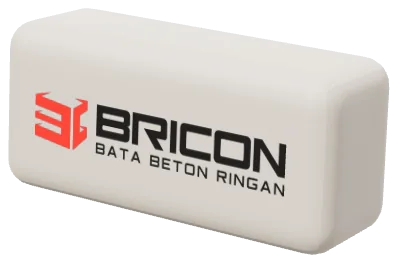
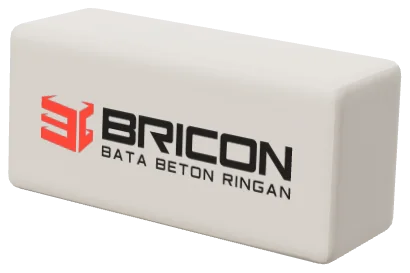
feat: rev11 sorotan jajar genjang, bata hero lebih tajam, fix 3D hilang, zoom desktop 90%
- Sorotan jajar genjang kuning (gaya BRICON) di "ringan" dan "kuat" pada hero & OG; stabilo deskripsi dihapus
- 2 bata hero dirender ulang dengan sudut lebih tajam tapi tetap membulat
- Fix model 3D produk hilang/titik penjelas muncul sendiri; model tetap di tempat kalau di-scroll saat transisi
- Seleksi teks kuning, scrollbar merah, desktop ≥1200px tampil seperti zoom 90%

Claude-Session: https://claude.ai/code/session_01XkrxM7aJVBU55g7YgcUYVG

diff --git a/index.html b/index.html
@@ -52,7 +52,7 @@
 <meta property="og:title" content="Bricon Partner — Bata Ringan &amp; Panel Lantai Jawa Timur">
 <meta property="og:description" content="Bata ringan &amp; panel lantai BRICON berteknologi Microbubble. Stok lengkap, pengiriman cepat, kualitas SNI. Konsultasi gratis via WhatsApp.">
 <meta property="og:locale" content="id_ID">
-<meta property="og:image" content="https://bricon-partner.com/assets/og-image.jpg?v=r10">
+<meta property="og:image" content="https://bricon-partner.com/assets/og-image.jpg?v=r11">
 <meta property="og:image:width" content="1200">
 <meta property="og:image:height" content="630">
 <meta property="og:image:alt" content="Bricon Partner — Bata Ringan &amp; Panel Lantai BRICON Jawa Timur">
@@ -61,7 +61,7 @@
 <meta name="twitter:card" content="summary_large_image">
 <meta name="twitter:title" content="Bricon Partner — Bata Ringan &amp; Panel Lantai Jawa Timur">
 <meta name="twitter:description" content="Bata ringan &amp; panel lantai BRICON berteknologi Microbubble. Stok lengkap, pengiriman cepat, kualitas SNI.">
-<meta name="twitter:image" content="https://bricon-partner.com/assets/og-image.jpg?v=r10">
+<meta name="twitter:image" content="https://bricon-partner.com/assets/og-image.jpg?v=r11">
 
 <!-- Canonical -->
 <link rel="canonical" href="https://bricon-partner.com/">
@@ -78,7 +78,7 @@
   "alternateName": ["Bata Ringan Bricon Partner"],
   "description": "Bricon Partner — penyedia Bata Ringan & Panel Lantai BRICON berteknologi Microbubble di Jawa Timur. Stok lengkap, pengiriman cepat, kualitas SNI.",
   "url": "https://bricon-partner.com/",
-  "image": "https://bricon-partner.com/assets/og-image.jpg?v=r10",
+  "image": "https://bricon-partner.com/assets/og-image.jpg?v=r11",
   "logo": "https://bricon-partner.com/assets/images/bricon-partner-logo-square.png?v=20261123",
   "telephone": "+6285184028183",
   "priceRange": "$$",
@@ -189,7 +189,12 @@
 :root{--spring:cubic-bezier(.34,1.56,.64,1);--spring2:cubic-bezier(.3,1.3,.6,1);--out:cubic-bezier(.2,.8,.2,1);--ink:#17171A;--paper:#F3F1EC;--card:#fff;--sand:#E9E4DA;--mute:#5A5A62;--dark:#141416;--soft:#C9C9CF;--yellow:#F7C600;--red:#D42B2B;--line:rgba(23,23,26,.1)}
 *{box-sizing:border-box;-webkit-tap-highlight-color:transparent}
 :focus{outline:none}:focus-visible{outline:2.5px solid var(--yellow);outline-offset:3px}
-html{scroll-padding-top:90px}
+html{scroll-padding-top:90px;scrollbar-color:var(--red) var(--paper)}
+::selection{background:var(--yellow);color:var(--ink)}
+::-webkit-scrollbar{width:11px;height:11px}::-webkit-scrollbar-track{background:var(--paper)}::-webkit-scrollbar-thumb{background:var(--red);border-radius:99px;border:2px solid var(--paper)}::-webkit-scrollbar-thumb:hover{background:#B82222}
+.stage{-webkit-user-select:none;user-select:none}
+/* desktop: tampilan 100% terasa seperti zoom 90% */
+@media (min-width:1200px){html{zoom:.9}}
 html,body{overflow-x:clip}
 body{margin:0;background:var(--paper);color:var(--ink);font-family:"Poppins","Poppins Fallback",sans-serif;-webkit-font-smoothing:antialiased}
 body.locked,html:has(body.locked){overflow:hidden;overscroll-behavior:none}
@@ -312,6 +317,11 @@ button{font-family:inherit}
 .hA .hero-grid{grid-template-columns:minmax(0,1.05fr) minmax(0,.95fr);gap:24px;padding:84px 0 30px}
 .hA .eyebrow{background:rgba(255,255,255,.08);color:#E6E6EA}
 .hA .h1{font-size:clamp(36px,4.3vw,60px)}.hA .h1{height:2.12em;line-height:1.06}.hA .h1 em{font-style:normal;color:var(--yellow)}
+.hA .h1 u{text-decoration:none;position:relative;z-index:0;display:inline-block;white-space:nowrap}
+.hA .h1 u::before{content:"";position:absolute;left:-2px;right:-4px;bottom:.08em;height:.42em;background:var(--yellow);border-radius:2px;transform:skewX(-14deg) scaleX(0);transform-origin:0 50%;z-index:-1;transition:transform .6s var(--out) .45s}
+.hA .h1 u+u::before,.hA .h1 br~u::before{transition-delay:.7s}
+body.ready .hA .h1 u::before{transform:skewX(-14deg) scaleX(1)}
+@media (prefers-reduced-motion:reduce){.hA .h1 u::before{transition:none;transform:skewX(-14deg)}}
 .hA .lead .stb{white-space:nowrap;color:var(--soft);font-weight:600;background:linear-gradient(transparent 8%,var(--yellow) 8%,var(--yellow) 94%,transparent 94%) no-repeat 0 0/0% 100%;padding:.04em .3em;margin:0 -.1em;border-radius:.3em;-webkit-box-decoration-break:clone;box-decoration-break:clone;transition:background-size .8s var(--out) .6s,color .3s .8s}
 body.ready .hA .lead .stb{background-size:100% 100%;color:var(--ink)}
 @media (prefers-reduced-motion:reduce){.hA .lead .stb{transition:none;background-size:100% 100%;color:var(--ink)}}
@@ -855,7 +865,7 @@ body.ready .hA .h1 .stb,.rvjs-off .hA .h1 .stb{background-size:100% 100%;color:v
   <div class="cap"><span class="mph" aria-hidden="true"><svg class="m1"><use href="#i-bata"/></svg><svg class="m2"><use href="#i-panel"/></svg></span>Sebentar ya, lagi disiapkan<span class="bar"><i></i></span></div>
 </div>
 <canvas id="g3" aria-hidden="true"></canvas>
-<div id="lpz" aria-hidden="true"><div class="lp" data-n="16" data-f="0.0440,0.3040,0.2820" data-h="0.1967,0.5550,0.3317" data-b0="0.2031,0.2656,0.5664" data-b1="0.2344,0.3555,0.5586"><div class="ls"><img src="assets/images/seq-0.webp" alt="" width="4096" height="256"></div></div><div class="lp" data-n="16" data-f="0.6740,0.5560,0.3000" data-h="0.5017,0.5660,0.3400" data-b0="0.2266,0.3359,0.5938" data-b1="0.1758,0.3359,0.6133"><div class="ls"><img src="assets/images/seq-1.webp" alt="" width="4096" height="256"></div></div><div class="lp" data-n="16" data-f="0.6100,0.0100,0.2910" data-h="0.3092,0.1590,0.4142" data-b0="0.2969,0.1875,0.4609" data-b1="0.2344,0.2383,0.5547"><div class="ls"><img src="assets/images/seq-2.webp" alt="" width="4096" height="256"></div></div></div>
+<div id="lpz" aria-hidden="true"><div class="lp" data-n="16" data-f="0.0380,0.2970,0.2930" data-h="0.1917,0.5520,0.3417" data-b0="0.1914,0.2578,0.5898" data-b1="0.2266,0.3516,0.5742"><div class="ls"><img src="assets/images/seq-0.webp" alt="" width="4096" height="256"></div></div><div class="lp" data-n="16" data-f="0.6690,0.5490,0.3110" data-h="0.4967,0.5620,0.3500" data-b0="0.2148,0.3320,0.6211" data-b1="0.1680,0.3320,0.6289"><div class="ls"><img src="assets/images/seq-1.webp" alt="" width="4096" height="256"></div></div><div class="lp" data-n="16" data-f="0.6100,0.0170,0.2900" data-h="0.3092,0.1590,0.4142" data-b0="0.2969,0.1875,0.4609" data-b1="0.2344,0.2383,0.5547"><div class="ls"><img src="assets/images/seq-2.webp" alt="" width="4096" height="256"></div></div></div>
 
 <header class="nav">
   <div class="nav-in">
@@ -875,8 +885,8 @@ body.ready .hA .h1 .stb,.rvjs-off .hA .h1 .stb{background-size:100% 100%;color:v
     <div class="hero-grid">
       <div class="hero-copy">
         <span class="eyebrow"><b><svg><use href="#i-seal"/></svg>Partner Resmi</b>BRICON Jawa Timur</span>
-        <h1 class="h1 d">Di tangan <em>ringan,</em><br>di bangunan <em>kuat.</em></h1>
-        <p class="lead">Bata ringan &amp; panel lantai BRICON, <mark class="stb">langsung dari pabrik.</mark><span class="d-only"> Kami kirim pakai truk ke proyekmu di mana pun di Jawa Timur.</span></p>
+        <h1 class="h1 d">Di tangan <u>ringan</u>,<br>di bangunan <u>kuat</u>.</h1>
+        <p class="lead">Bata ringan &amp; panel lantai BRICON, langsung dari pabrik.<span class="d-only"> Kami kirim pakai truk ke proyekmu di mana pun di Jawa Timur.</span></p>
         <div class="cta-row">
           <button class="btn btn-red" type="button" data-form="hero"><svg><use href="#i-wa"/></svg>Pesan lewat WhatsApp</button>
           <a class="btn btn-soft-d" href="#produk"><span class="d-only">Lihat ukuran &amp; spesifikasi</span><span class="m-only">Produk</span></a>
@@ -1330,13 +1340,13 @@ else{var io3=new IntersectionObserver(function(e){if(e[0].isIntersecting){io3.di
   var L=$$('#lpz .lp').map(function(el){var g=function(k){return el.dataset[k].split(',').map(Number)};return{el:el,s:el.querySelector('.ls'),im:el.querySelector('img'),f:g('f'),h:g('h'),b0:g('b0'),b1:g('b1'),n:+el.dataset.n}});
   function fr(r,bb){var D=r.w/bb[2];return{x:r.x-bb[0]*D,y:r.y-bb[1]*D,D:D}}
   function put(o,q,k){var s=o.el.style;if(!o.D0){o.D0=q.D;s.width=s.height=q.D+'px'}s.transform='translate('+q.x+'px,'+q.y+'px) scale('+(q.D/o.D0)+')';o.im.style.transform='translateX('+(-k*100/o.n)+'%)'}
-  function A(o){var W=innerWidth,H=innerHeight,S=Math.min(W,H),ox=(W-S)/2,oy=(H-S)/2;return fr({x:ox+o.f[0]*S,y:oy+o.f[1]*S,w:o.f[2]*S},o.b0)}
+  function A(o){var Z=parseFloat(getComputedStyle(document.documentElement).zoom)||1,W=innerWidth/Z,H=innerHeight/Z,S=Math.min(W,H),ox=(W-S)/2,oy=(H-S)/2;return fr({x:ox+o.f[0]*S,y:oy+o.f[1]*S,w:o.f[2]*S},o.b0)}
   function lay(){L.forEach(function(o){o.D0=0;put(o,A(o),0)})}
   lay();addEventListener('resize',function(){if(!done)lay()});
   function eob(x){var c1=1.35,c3=c1+1;return 1+c3*Math.pow(x-1,3)+c1*Math.pow(x-1,2)}
   function go(){if(done)return;done=true;scrollTo(0,0);
     if(RMq){finishLoader();st.classList.remove('pre');lpz.remove();return}
-    ld.classList.add('go');var S=st.getBoundingClientRect(),T0=performance.now(),DUR=1050;
+    ld.classList.add('go');var Zm=parseFloat(getComputedStyle(document.documentElement).zoom)||1,S0=st.getBoundingClientRect(),S={left:S0.left/Zm,top:S0.top/Zm,width:S0.width/Zm,height:S0.height/Zm},T0=performance.now(),DUR=1050;
     L.forEach(function(o){o.a=A(o);o.b=fr({x:S.left+o.h[0]*S.width,y:S.top+o.h[1]*S.height,w:o.h[2]*S.width},o.b1);o.s.style.animation='none'});
     (function tick(){var now=performance.now(),all=true;
       L.forEach(function(o,i){var p=Math.min(1,Math.max(0,(now-T0-i*60)/DUR));if(p<1)all=false;var e=eob(p),c=1-Math.pow(1-p,3);
@@ -1445,7 +1455,7 @@ function Kit(renderer){
   const steelC=()=>new THREE.MeshStandardMaterial({color:0xB3B9C0,metalness:.75,roughness:.34,envMapIntensity:1.2});
   /* bata: kotak dengan tepi membulat halus */
   function brick(t,o={}){const g=new THREE.Group();
-    if(o.clay){const W=6.6,H=2.95,D=2.3,geo=roundBox(W,H,D,.48,[36,18,16]);const m=new THREE.Mesh(geo,clayM());m.castShadow=m.receiveShadow=true;g.add(m);
+    if(o.clay){const W=6.6,H=2.95,D=2.3,geo=roundBox(W,H,D,.24,[44,22,18]);const m=new THREE.Mesh(geo,clayM());m.castShadow=m.receiveShadow=true;g.add(m);
       const l=label('bata_c',5.0,true);l.position.set(.05,-.05,D/2+.006);g.add(l);g.userData.h=H;return g}
     const geo=roundBox(6,2,t,.035);
     const mats=[surf(t/TILE,2/TILE),surf(t/TILE,2/TILE),surf(6/TILE,t/TILE),surf(6/TILE,t/TILE),surf(6/TILE,2/TILE),surf(6/TILE,2/TILE)];
@@ -1633,12 +1643,12 @@ p3.addEventListener('webglcontextlost',e=>e.preventDefault());p3.addEventListene
 p3.addEventListener('pointerdown',e=>{drag2={x:e.clientX,y:e.clientY,r:rotY};p3.setPointerCapture(e.pointerId);p3.style.cursor='grabbing'});
 p3.addEventListener('pointermove',e=>{if(drag2){rotY=drag2.r+(e.clientX-drag2.x)/stage.clientWidth*4;dirty2=true}});
 p3.addEventListener('pointerup',e=>{if(drag2&&Math.abs(e.clientX-drag2.x)+Math.abs(e.clientY-drag2.y)<6){if(P.notes){P.notes=false;P.notesOff=true}else if(P.prod==='panel'&&P.mode!=='utuh'&&!P.demo){P.notes=true;P.notesOff=false}dirty2=true}drag2=null;p3.style.cursor=''});
-new ResizeObserver(()=>prodObj&&frame2()).observe(stage);
+new ResizeObserver(()=>{if(!prodObj)return;frame2();if(swp&&swp.ph===1){swp.np=cam2.position.clone();swp.nq=cam2.quaternion.clone()}}).observe(stage);
 let vis2=false;new IntersectionObserver(e=>{vis2=e[0].isIntersecting},{rootMargin:'200px'}).observe(stage);
 build2();
 const v=new THREE.Vector3();let last2=performance.now();
 function loop2(now){const dt=Math.min(.05,(now-last2)/1000);last2=now;
-  if(swp&&!vis2){if(swp.ph===0)build2();swp=null}
+  if(swp&&!vis2){if(swp.ph===0)build2();else if(swp.np){cam2.position.copy(swp.np);cam2.quaternion.copy(swp.nq)}if(prodObj){prodObj.position.x=0;prodObj.scale.setScalar(1)}swp=null;dirty2=true}
   if(vis2&&prodObj&&swp){const k=now-swp.t0;
     const SX=14;
     if(swp.ph===0){const e=Math.min(1,k/280),q=e*e*e;swp.old.position.x=-swp.dir*SX*q;swp.old.scale.setScalar(1-.12*q);
@@ -1658,7 +1668,7 @@ function loop2(now){const dt=Math.min(.05,(now-last2)/1000);last2=now;
       const show=P.notes&&P.mode!=='utuh'&&(anim.op<.6||anim.ex>.3);const w=stage.clientWidth,h=stage.clientHeight;prodObj.updateMatrixWorld();
       NOTES.forEach(n=>{const el=notesEl.querySelector(`[data-k="${n.k}"]`);const p=n.pt();if(n.mesh!==undefined)p.y=parts.meshes[n.mesh].position.y;else if(n.slice!==undefined)p.y+=parts.slices[n.slice].position.y-parts.T/2;
         v.copy(p).applyMatrix4(prodObj.matrixWorld).project(cam2);const x=(v.x*.5+.5)*w,y=(-v.y*.5+.5)*h;const okk=show&&!(P.mode==='xray'&&n.k==='end'&&w<600);
-        const ew=el.offsetWidth;let tx=n.side==='l'?x-ew:x;tx=Math.max(6,Math.min(w-ew-6,tx));el.style.transform=`translate(${tx}px,${y}px)`;el.classList.toggle('on',okk)})}
+        const ew=el.offsetWidth;let tx=n.side==='l'?x-ew:x;tx=Math.max(6,Math.min(w-ew-6,tx));el.style.transform=`translate(${tx}px,${y}px)`;el.classList.toggle('on',!!okk)})}
     R2.render(S2,cam2)}
   requestAnimationFrame(loop2)}
 requestAnimationFrame(loop2);

diff --git a/kota/mojokerto.html b/kota/mojokerto.html
@@ -54,7 +54,7 @@
 <meta property="og:title" content="Bata Ringan Mojokerto — Bricon Partner">
 <meta property="og:description" content="Jual bata ringan &amp; panel lantai Mojokerto berteknologi Microbubble. Harga bersaing, stok lengkap, kirim cepat. Konsultasi gratis via WhatsApp.">
 <meta property="og:locale" content="id_ID">
-<meta property="og:image" content="https://bricon-partner.com/assets/og-image.jpg?v=r10">
+<meta property="og:image" content="https://bricon-partner.com/assets/og-image.jpg?v=r11">
 <meta property="og:image:width" content="1200">
 <meta property="og:image:height" content="630">
 <meta property="og:image:alt" content="Bricon Partner — Bata Ringan &amp; Panel Lantai Mojokerto">
@@ -63,7 +63,7 @@
 <meta name="twitter:card" content="summary_large_image">
 <meta name="twitter:title" content="Bata Ringan Mojokerto — Bricon Partner">
 <meta name="twitter:description" content="Jual bata ringan &amp; panel lantai Mojokerto berteknologi Microbubble. Harga bersaing, stok lengkap, kirim cepat.">
-<meta name="twitter:image" content="https://bricon-partner.com/assets/og-image.jpg?v=r10">
+<meta name="twitter:image" content="https://bricon-partner.com/assets/og-image.jpg?v=r11">
 
 <!-- Canonical -->
 <link rel="canonical" href="https://bricon-partner.com/kota/mojokerto">
@@ -81,7 +81,7 @@
   "alternateName": ["Bata Ringan Bricon Partner"],
   "description": "Jual Bata Ringan & Panel Lantai BRICON berteknologi Microbubble di Mojokerto. Stok lengkap, pengiriman cepat, kualitas SNI.",
   "url": "https://bricon-partner.com/kota/mojokerto",
-  "image": "https://bricon-partner.com/assets/og-image.jpg?v=r10",
+  "image": "https://bricon-partner.com/assets/og-image.jpg?v=r11",
   "logo": "https://bricon-partner.com/assets/images/bricon-partner-logo-square.png?v=20261123",
   "telephone": "+6285184028183",
   "priceRange": "$$",
@@ -186,7 +186,12 @@
 :root{--spring:cubic-bezier(.34,1.56,.64,1);--spring2:cubic-bezier(.3,1.3,.6,1);--out:cubic-bezier(.2,.8,.2,1);--ink:#17171A;--paper:#F3F1EC;--card:#fff;--sand:#E9E4DA;--mute:#5A5A62;--dark:#141416;--soft:#C9C9CF;--yellow:#F7C600;--red:#D42B2B;--line:rgba(23,23,26,.1)}
 *{box-sizing:border-box;-webkit-tap-highlight-color:transparent}
 :focus{outline:none}:focus-visible{outline:2.5px solid var(--yellow);outline-offset:3px}
-html{scroll-padding-top:90px}
+html{scroll-padding-top:90px;scrollbar-color:var(--red) var(--paper)}
+::selection{background:var(--yellow);color:var(--ink)}
+::-webkit-scrollbar{width:11px;height:11px}::-webkit-scrollbar-track{background:var(--paper)}::-webkit-scrollbar-thumb{background:var(--red);border-radius:99px;border:2px solid var(--paper)}::-webkit-scrollbar-thumb:hover{background:#B82222}
+.stage{-webkit-user-select:none;user-select:none}
+/* desktop: tampilan 100% terasa seperti zoom 90% */
+@media (min-width:1200px){html{zoom:.9}}
 html,body{overflow-x:clip}
 body{margin:0;background:var(--paper);color:var(--ink);font-family:"Poppins","Poppins Fallback",sans-serif;-webkit-font-smoothing:antialiased}
 body.locked,html:has(body.locked){overflow:hidden;overscroll-behavior:none}
@@ -309,6 +314,11 @@ button{font-family:inherit}
 .hA .hero-grid{grid-template-columns:minmax(0,1.05fr) minmax(0,.95fr);gap:24px;padding:84px 0 30px}
 .hA .eyebrow{background:rgba(255,255,255,.08);color:#E6E6EA}
 .hA .h1{font-size:clamp(36px,4.3vw,60px)}.hA .h1{height:2.12em;line-height:1.06}.hA .h1 em{font-style:normal;color:var(--yellow)}
+.hA .h1 u{text-decoration:none;position:relative;z-index:0;display:inline-block;white-space:nowrap}
+.hA .h1 u::before{content:"";position:absolute;left:-2px;right:-4px;bottom:.08em;height:.42em;background:var(--yellow);border-radius:2px;transform:skewX(-14deg) scaleX(0);transform-origin:0 50%;z-index:-1;transition:transform .6s var(--out) .45s}
+.hA .h1 u+u::before,.hA .h1 br~u::before{transition-delay:.7s}
+body.ready .hA .h1 u::before{transform:skewX(-14deg) scaleX(1)}
+@media (prefers-reduced-motion:reduce){.hA .h1 u::before{transition:none;transform:skewX(-14deg)}}
 .hA .lead .stb{white-space:nowrap;color:var(--soft);font-weight:600;background:linear-gradient(transparent 8%,var(--yellow) 8%,var(--yellow) 94%,transparent 94%) no-repeat 0 0/0% 100%;padding:.04em .3em;margin:0 -.1em;border-radius:.3em;-webkit-box-decoration-break:clone;box-decoration-break:clone;transition:background-size .8s var(--out) .6s,color .3s .8s}
 body.ready .hA .lead .stb{background-size:100% 100%;color:var(--ink)}
 @media (prefers-reduced-motion:reduce){.hA .lead .stb{transition:none;background-size:100% 100%;color:var(--ink)}}
@@ -852,7 +862,7 @@ body.ready .hA .h1 .stb,.rvjs-off .hA .h1 .stb{background-size:100% 100%;color:v
   <div class="cap"><span class="mph" aria-hidden="true"><svg class="m1"><use href="#i-bata"/></svg><svg class="m2"><use href="#i-panel"/></svg></span>Sebentar ya, lagi disiapkan<span class="bar"><i></i></span></div>
 </div>
 <canvas id="g3" aria-hidden="true"></canvas>
-<div id="lpz" aria-hidden="true"><div class="lp" data-n="16" data-f="0.0440,0.3040,0.2820" data-h="0.1967,0.5550,0.3317" data-b0="0.2031,0.2656,0.5664" data-b1="0.2344,0.3555,0.5586"><div class="ls"><img src="/assets/images/seq-0.webp" alt="" width="4096" height="256"></div></div><div class="lp" data-n="16" data-f="0.6740,0.5560,0.3000" data-h="0.5017,0.5660,0.3400" data-b0="0.2266,0.3359,0.5938" data-b1="0.1758,0.3359,0.6133"><div class="ls"><img src="/assets/images/seq-1.webp" alt="" width="4096" height="256"></div></div><div class="lp" data-n="16" data-f="0.6100,0.0100,0.2910" data-h="0.3092,0.1590,0.4142" data-b0="0.2969,0.1875,0.4609" data-b1="0.2344,0.2383,0.5547"><div class="ls"><img src="/assets/images/seq-2.webp" alt="" width="4096" height="256"></div></div></div>
+<div id="lpz" aria-hidden="true"><div class="lp" data-n="16" data-f="0.0380,0.2970,0.2930" data-h="0.1917,0.5520,0.3417" data-b0="0.1914,0.2578,0.5898" data-b1="0.2266,0.3516,0.5742"><div class="ls"><img src="/assets/images/seq-0.webp" alt="" width="4096" height="256"></div></div><div class="lp" data-n="16" data-f="0.6690,0.5490,0.3110" data-h="0.4967,0.5620,0.3500" data-b0="0.2148,0.3320,0.6211" data-b1="0.1680,0.3320,0.6289"><div class="ls"><img src="/assets/images/seq-1.webp" alt="" width="4096" height="256"></div></div><div class="lp" data-n="16" data-f="0.6100,0.0170,0.2900" data-h="0.3092,0.1590,0.4142" data-b0="0.2969,0.1875,0.4609" data-b1="0.2344,0.2383,0.5547"><div class="ls"><img src="/assets/images/seq-2.webp" alt="" width="4096" height="256"></div></div></div>
 
 <header class="nav">
   <div class="nav-in">
@@ -872,8 +882,8 @@ body.ready .hA .h1 .stb,.rvjs-off .hA .h1 .stb{background-size:100% 100%;color:v
     <div class="hero-grid">
       <div class="hero-copy">
         <span class="eyebrow"><b><svg><use href="#i-seal"/></svg>Partner Resmi</b>Kirim ke Mojokerto</span>
-        <h1 class="h1 d">Di tangan <em>ringan,</em><br>di bangunan <em>kuat.</em></h1>
-        <p class="lead">Bata ringan &amp; panel lantai BRICON, <mark class="stb">langsung dari pabrik.</mark><span class="d-only"> Kami kirim pakai truk langsung ke proyekmu di Mojokerto.</span></p>
+        <h1 class="h1 d">Di tangan <u>ringan</u>,<br>di bangunan <u>kuat</u>.</h1>
+        <p class="lead">Bata ringan &amp; panel lantai BRICON, langsung dari pabrik.<span class="d-only"> Kami kirim pakai truk langsung ke proyekmu di Mojokerto.</span></p>
         <div class="cta-row">
           <button class="btn btn-red" type="button" data-form="hero"><svg><use href="#i-wa"/></svg>Pesan lewat WhatsApp</button>
           <a class="btn btn-soft-d" href="#produk"><span class="d-only">Lihat ukuran &amp; spesifikasi</span><span class="m-only">Produk</span></a>
@@ -1327,13 +1337,13 @@ else{var io3=new IntersectionObserver(function(e){if(e[0].isIntersecting){io3.di
   var L=$$('#lpz .lp').map(function(el){var g=function(k){return el.dataset[k].split(',').map(Number)};return{el:el,s:el.querySelector('.ls'),im:el.querySelector('img'),f:g('f'),h:g('h'),b0:g('b0'),b1:g('b1'),n:+el.dataset.n}});
   function fr(r,bb){var D=r.w/bb[2];return{x:r.x-bb[0]*D,y:r.y-bb[1]*D,D:D}}
   function put(o,q,k){var s=o.el.style;if(!o.D0){o.D0=q.D;s.width=s.height=q.D+'px'}s.transform='translate('+q.x+'px,'+q.y+'px) scale('+(q.D/o.D0)+')';o.im.style.transform='translateX('+(-k*100/o.n)+'%)'}
-  function A(o){var W=innerWidth,H=innerHeight,S=Math.min(W,H),ox=(W-S)/2,oy=(H-S)/2;return fr({x:ox+o.f[0]*S,y:oy+o.f[1]*S,w:o.f[2]*S},o.b0)}
+  function A(o){var Z=parseFloat(getComputedStyle(document.documentElement).zoom)||1,W=innerWidth/Z,H=innerHeight/Z,S=Math.min(W,H),ox=(W-S)/2,oy=(H-S)/2;return fr({x:ox+o.f[0]*S,y:oy+o.f[1]*S,w:o.f[2]*S},o.b0)}
   function lay(){L.forEach(function(o){o.D0=0;put(o,A(o),0)})}
   lay();addEventListener('resize',function(){if(!done)lay()});
   function eob(x){var c1=1.35,c3=c1+1;return 1+c3*Math.pow(x-1,3)+c1*Math.pow(x-1,2)}
   function go(){if(done)return;done=true;scrollTo(0,0);
     if(RMq){finishLoader();st.classList.remove('pre');lpz.remove();return}
-    ld.classList.add('go');var S=st.getBoundingClientRect(),T0=performance.now(),DUR=1050;
+    ld.classList.add('go');var Zm=parseFloat(getComputedStyle(document.documentElement).zoom)||1,S0=st.getBoundingClientRect(),S={left:S0.left/Zm,top:S0.top/Zm,width:S0.width/Zm,height:S0.height/Zm},T0=performance.now(),DUR=1050;
     L.forEach(function(o){o.a=A(o);o.b=fr({x:S.left+o.h[0]*S.width,y:S.top+o.h[1]*S.height,w:o.h[2]*S.width},o.b1);o.s.style.animation='none'});
     (function tick(){var now=performance.now(),all=true;
       L.forEach(function(o,i){var p=Math.min(1,Math.max(0,(now-T0-i*60)/DUR));if(p<1)all=false;var e=eob(p),c=1-Math.pow(1-p,3);
@@ -1442,7 +1452,7 @@ function Kit(renderer){
   const steelC=()=>new THREE.MeshStandardMaterial({color:0xB3B9C0,metalness:.75,roughness:.34,envMapIntensity:1.2});
   /* bata: kotak dengan tepi membulat halus */
   function brick(t,o={}){const g=new THREE.Group();
-    if(o.clay){const W=6.6,H=2.95,D=2.3,geo=roundBox(W,H,D,.48,[36,18,16]);const m=new THREE.Mesh(geo,clayM());m.castShadow=m.receiveShadow=true;g.add(m);
+    if(o.clay){const W=6.6,H=2.95,D=2.3,geo=roundBox(W,H,D,.24,[44,22,18]);const m=new THREE.Mesh(geo,clayM());m.castShadow=m.receiveShadow=true;g.add(m);
       const l=label('bata_c',5.0,true);l.position.set(.05,-.05,D/2+.006);g.add(l);g.userData.h=H;return g}
     const geo=roundBox(6,2,t,.035);
     const mats=[surf(t/TILE,2/TILE),surf(t/TILE,2/TILE),surf(6/TILE,t/TILE),surf(6/TILE,t/TILE),surf(6/TILE,2/TILE),surf(6/TILE,2/TILE)];
@@ -1630,12 +1640,12 @@ p3.addEventListener('webglcontextlost',e=>e.preventDefault());p3.addEventListene
 p3.addEventListener('pointerdown',e=>{drag2={x:e.clientX,y:e.clientY,r:rotY};p3.setPointerCapture(e.pointerId);p3.style.cursor='grabbing'});
 p3.addEventListener('pointermove',e=>{if(drag2){rotY=drag2.r+(e.clientX-drag2.x)/stage.clientWidth*4;dirty2=true}});
 p3.addEventListener('pointerup',e=>{if(drag2&&Math.abs(e.clientX-drag2.x)+Math.abs(e.clientY-drag2.y)<6){if(P.notes){P.notes=false;P.notesOff=true}else if(P.prod==='panel'&&P.mode!=='utuh'&&!P.demo){P.notes=true;P.notesOff=false}dirty2=true}drag2=null;p3.style.cursor=''});
-new ResizeObserver(()=>prodObj&&frame2()).observe(stage);
+new ResizeObserver(()=>{if(!prodObj)return;frame2();if(swp&&swp.ph===1){swp.np=cam2.position.clone();swp.nq=cam2.quaternion.clone()}}).observe(stage);
 let vis2=false;new IntersectionObserver(e=>{vis2=e[0].isIntersecting},{rootMargin:'200px'}).observe(stage);
 build2();
 const v=new THREE.Vector3();let last2=performance.now();
 function loop2(now){const dt=Math.min(.05,(now-last2)/1000);last2=now;
-  if(swp&&!vis2){if(swp.ph===0)build2();swp=null}
+  if(swp&&!vis2){if(swp.ph===0)build2();else if(swp.np){cam2.position.copy(swp.np);cam2.quaternion.copy(swp.nq)}if(prodObj){prodObj.position.x=0;prodObj.scale.setScalar(1)}swp=null;dirty2=true}
   if(vis2&&prodObj&&swp){const k=now-swp.t0;
     const SX=14;
     if(swp.ph===0){const e=Math.min(1,k/280),q=e*e*e;swp.old.position.x=-swp.dir*SX*q;swp.old.scale.setScalar(1-.12*q);
@@ -1655,7 +1665,7 @@ function loop2(now){const dt=Math.min(.05,(now-last2)/1000);last2=now;
       const show=P.notes&&P.mode!=='utuh'&&(anim.op<.6||anim.ex>.3);const w=stage.clientWidth,h=stage.clientHeight;prodObj.updateMatrixWorld();
       NOTES.forEach(n=>{const el=notesEl.querySelector(`[data-k="${n.k}"]`);const p=n.pt();if(n.mesh!==undefined)p.y=parts.meshes[n.mesh].position.y;else if(n.slice!==undefined)p.y+=parts.slices[n.slice].position.y-parts.T/2;
         v.copy(p).applyMatrix4(prodObj.matrixWorld).project(cam2);const x=(v.x*.5+.5)*w,y=(-v.y*.5+.5)*h;const okk=show&&!(P.mode==='xray'&&n.k==='end'&&w<600);
-        const ew=el.offsetWidth;let tx=n.side==='l'?x-ew:x;tx=Math.max(6,Math.min(w-ew-6,tx));el.style.transform=`translate(${tx}px,${y}px)`;el.classList.toggle('on',okk)})}
+        const ew=el.offsetWidth;let tx=n.side==='l'?x-ew:x;tx=Math.max(6,Math.min(w-ew-6,tx));el.style.transform=`translate(${tx}px,${y}px)`;el.classList.toggle('on',!!okk)})}
     R2.render(S2,cam2)}
   requestAnimationFrame(loop2)}
 requestAnimationFrame(loop2);

diff --git a/kota/surabaya.html b/kota/surabaya.html
@@ -54,7 +54,7 @@
 <meta property="og:title" content="Bata Ringan Surabaya — Bricon Partner">
 <meta property="og:description" content="Jual bata ringan &amp; panel lantai Surabaya berteknologi Microbubble. Harga bersaing, stok lengkap, kirim cepat. Konsultasi gratis via WhatsApp.">
 <meta property="og:locale" content="id_ID">
-<meta property="og:image" content="https://bricon-partner.com/assets/og-image.jpg?v=r10">
+<meta property="og:image" content="https://bricon-partner.com/assets/og-image.jpg?v=r11">
 <meta property="og:image:width" content="1200">
 <meta property="og:image:height" content="630">
 <meta property="og:image:alt" content="Bricon Partner — Bata Ringan &amp; Panel Lantai Surabaya">
@@ -63,7 +63,7 @@
 <meta name="twitter:card" content="summary_large_image">
 <meta name="twitter:title" content="Bata Ringan Surabaya — Bricon Partner">
 <meta name="twitter:description" content="Jual bata ringan &amp; panel lantai Surabaya berteknologi Microbubble. Harga bersaing, stok lengkap, kirim cepat.">
-<meta name="twitter:image" content="https://bricon-partner.com/assets/og-image.jpg?v=r10">
+<meta name="twitter:image" content="https://bricon-partner.com/assets/og-image.jpg?v=r11">
 
 <!-- Canonical -->
 <link rel="canonical" href="https://bricon-partner.com/kota/surabaya">
@@ -81,7 +81,7 @@
   "alternateName": ["Bata Ringan Bricon Partner"],
   "description": "Jual Bata Ringan & Panel Lantai BRICON berteknologi Microbubble di Surabaya. Stok lengkap, pengiriman cepat, kualitas SNI.",
   "url": "https://bricon-partner.com/kota/surabaya",
-  "image": "https://bricon-partner.com/assets/og-image.jpg?v=r10",
+  "image": "https://bricon-partner.com/assets/og-image.jpg?v=r11",
   "logo": "https://bricon-partner.com/assets/images/bricon-partner-logo-square.png?v=20261123",
   "telephone": "+6285184028183",
   "priceRange": "$$",
@@ -186,7 +186,12 @@
 :root{--spring:cubic-bezier(.34,1.56,.64,1);--spring2:cubic-bezier(.3,1.3,.6,1);--out:cubic-bezier(.2,.8,.2,1);--ink:#17171A;--paper:#F3F1EC;--card:#fff;--sand:#E9E4DA;--mute:#5A5A62;--dark:#141416;--soft:#C9C9CF;--yellow:#F7C600;--red:#D42B2B;--line:rgba(23,23,26,.1)}
 *{box-sizing:border-box;-webkit-tap-highlight-color:transparent}
 :focus{outline:none}:focus-visible{outline:2.5px solid var(--yellow);outline-offset:3px}
-html{scroll-padding-top:90px}
+html{scroll-padding-top:90px;scrollbar-color:var(--red) var(--paper)}
+::selection{background:var(--yellow);color:var(--ink)}
+::-webkit-scrollbar{width:11px;height:11px}::-webkit-scrollbar-track{background:var(--paper)}::-webkit-scrollbar-thumb{background:var(--red);border-radius:99px;border:2px solid var(--paper)}::-webkit-scrollbar-thumb:hover{background:#B82222}
+.stage{-webkit-user-select:none;user-select:none}
+/* desktop: tampilan 100% terasa seperti zoom 90% */
+@media (min-width:1200px){html{zoom:.9}}
 html,body{overflow-x:clip}
 body{margin:0;background:var(--paper);color:var(--ink);font-family:"Poppins","Poppins Fallback",sans-serif;-webkit-font-smoothing:antialiased}
 body.locked,html:has(body.locked){overflow:hidden;overscroll-behavior:none}
@@ -309,6 +314,11 @@ button{font-family:inherit}
 .hA .hero-grid{grid-template-columns:minmax(0,1.05fr) minmax(0,.95fr);gap:24px;padding:84px 0 30px}
 .hA .eyebrow{background:rgba(255,255,255,.08);color:#E6E6EA}
 .hA .h1{font-size:clamp(36px,4.3vw,60px)}.hA .h1{height:2.12em;line-height:1.06}.hA .h1 em{font-style:normal;color:var(--yellow)}
+.hA .h1 u{text-decoration:none;position:relative;z-index:0;display:inline-block;white-space:nowrap}
+.hA .h1 u::before{content:"";position:absolute;left:-2px;right:-4px;bottom:.08em;height:.42em;background:var(--yellow);border-radius:2px;transform:skewX(-14deg) scaleX(0);transform-origin:0 50%;z-index:-1;transition:transform .6s var(--out) .45s}
+.hA .h1 u+u::before,.hA .h1 br~u::before{transition-delay:.7s}
+body.ready .hA .h1 u::before{transform:skewX(-14deg) scaleX(1)}
+@media (prefers-reduced-motion:reduce){.hA .h1 u::before{transition:none;transform:skewX(-14deg)}}
 .hA .lead .stb{white-space:nowrap;color:var(--soft);font-weight:600;background:linear-gradient(transparent 8%,var(--yellow) 8%,var(--yellow) 94%,transparent 94%) no-repeat 0 0/0% 100%;padding:.04em .3em;margin:0 -.1em;border-radius:.3em;-webkit-box-decoration-break:clone;box-decoration-break:clone;transition:background-size .8s var(--out) .6s,color .3s .8s}
 body.ready .hA .lead .stb{background-size:100% 100%;color:var(--ink)}
 @media (prefers-reduced-motion:reduce){.hA .lead .stb{transition:none;background-size:100% 100%;color:var(--ink)}}
@@ -852,7 +862,7 @@ body.ready .hA .h1 .stb,.rvjs-off .hA .h1 .stb{background-size:100% 100%;color:v
   <div class="cap"><span class="mph" aria-hidden="true"><svg class="m1"><use href="#i-bata"/></svg><svg class="m2"><use href="#i-panel"/></svg></span>Sebentar ya, lagi disiapkan<span class="bar"><i></i></span></div>
 </div>
 <canvas id="g3" aria-hidden="true"></canvas>
-<div id="lpz" aria-hidden="true"><div class="lp" data-n="16" data-f="0.0440,0.3040,0.2820" data-h="0.1967,0.5550,0.3317" data-b0="0.2031,0.2656,0.5664" data-b1="0.2344,0.3555,0.5586"><div class="ls"><img src="/assets/images/seq-0.webp" alt="" width="4096" height="256"></div></div><div class="lp" data-n="16" data-f="0.6740,0.5560,0.3000" data-h="0.5017,0.5660,0.3400" data-b0="0.2266,0.3359,0.5938" data-b1="0.1758,0.3359,0.6133"><div class="ls"><img src="/assets/images/seq-1.webp" alt="" width="4096" height="256"></div></div><div class="lp" data-n="16" data-f="0.6100,0.0100,0.2910" data-h="0.3092,0.1590,0.4142" data-b0="0.2969,0.1875,0.4609" data-b1="0.2344,0.2383,0.5547"><div class="ls"><img src="/assets/images/seq-2.webp" alt="" width="4096" height="256"></div></div></div>
+<div id="lpz" aria-hidden="true"><div class="lp" data-n="16" data-f="0.0380,0.2970,0.2930" data-h="0.1917,0.5520,0.3417" data-b0="0.1914,0.2578,0.5898" data-b1="0.2266,0.3516,0.5742"><div class="ls"><img src="/assets/images/seq-0.webp" alt="" width="4096" height="256"></div></div><div class="lp" data-n="16" data-f="0.6690,0.5490,0.3110" data-h="0.4967,0.5620,0.3500" data-b0="0.2148,0.3320,0.6211" data-b1="0.1680,0.3320,0.6289"><div class="ls"><img src="/assets/images/seq-1.webp" alt="" width="4096" height="256"></div></div><div class="lp" data-n="16" data-f="0.6100,0.0170,0.2900" data-h="0.3092,0.1590,0.4142" data-b0="0.2969,0.1875,0.4609" data-b1="0.2344,0.2383,0.5547"><div class="ls"><img src="/assets/images/seq-2.webp" alt="" width="4096" height="256"></div></div></div>
 
 <header class="nav">
   <div class="nav-in">
@@ -872,8 +882,8 @@ body.ready .hA .h1 .stb,.rvjs-off .hA .h1 .stb{background-size:100% 100%;color:v
     <div class="hero-grid">
       <div class="hero-copy">
         <span class="eyebrow"><b><svg><use href="#i-seal"/></svg>Partner Resmi</b>Kirim ke Surabaya</span>
-        <h1 class="h1 d">Di tangan <em>ringan,</em><br>di bangunan <em>kuat.</em></h1>
-        <p class="lead">Bata ringan &amp; panel lantai BRICON, <mark class="stb">langsung dari pabrik.</mark><span class="d-only"> Kami kirim pakai truk langsung ke proyekmu di Surabaya.</span></p>
+        <h1 class="h1 d">Di tangan <u>ringan</u>,<br>di bangunan <u>kuat</u>.</h1>
+        <p class="lead">Bata ringan &amp; panel lantai BRICON, langsung dari pabrik.<span class="d-only"> Kami kirim pakai truk langsung ke proyekmu di Surabaya.</span></p>
         <div class="cta-row">
           <button class="btn btn-red" type="button" data-form="hero"><svg><use href="#i-wa"/></svg>Pesan lewat WhatsApp</button>
           <a class="btn btn-soft-d" href="#produk"><span class="d-only">Lihat ukuran &amp; spesifikasi</span><span class="m-only">Produk</span></a>
@@ -1327,13 +1337,13 @@ else{var io3=new IntersectionObserver(function(e){if(e[0].isIntersecting){io3.di
   var L=$$('#lpz .lp').map(function(el){var g=function(k){return el.dataset[k].split(',').map(Number)};return{el:el,s:el.querySelector('.ls'),im:el.querySelector('img'),f:g('f'),h:g('h'),b0:g('b0'),b1:g('b1'),n:+el.dataset.n}});
   function fr(r,bb){var D=r.w/bb[2];return{x:r.x-bb[0]*D,y:r.y-bb[1]*D,D:D}}
   function put(o,q,k){var s=o.el.style;if(!o.D0){o.D0=q.D;s.width=s.height=q.D+'px'}s.transform='translate('+q.x+'px,'+q.y+'px) scale('+(q.D/o.D0)+')';o.im.style.transform='translateX('+(-k*100/o.n)+'%)'}
-  function A(o){var W=innerWidth,H=innerHeight,S=Math.min(W,H),ox=(W-S)/2,oy=(H-S)/2;return fr({x:ox+o.f[0]*S,y:oy+o.f[1]*S,w:o.f[2]*S},o.b0)}
+  function A(o){var Z=parseFloat(getComputedStyle(document.documentElement).zoom)||1,W=innerWidth/Z,H=innerHeight/Z,S=Math.min(W,H),ox=(W-S)/2,oy=(H-S)/2;return fr({x:ox+o.f[0]*S,y:oy+o.f[1]*S,w:o.f[2]*S},o.b0)}
   function lay(){L.forEach(function(o){o.D0=0;put(o,A(o),0)})}
   lay();addEventListener('resize',function(){if(!done)lay()});
   function eob(x){var c1=1.35,c3=c1+1;return 1+c3*Math.pow(x-1,3)+c1*Math.pow(x-1,2)}
   function go(){if(done)return;done=true;scrollTo(0,0);
     if(RMq){finishLoader();st.classList.remove('pre');lpz.remove();return}
-    ld.classList.add('go');var S=st.getBoundingClientRect(),T0=performance.now(),DUR=1050;
+    ld.classList.add('go');var Zm=parseFloat(getComputedStyle(document.documentElement).zoom)||1,S0=st.getBoundingClientRect(),S={left:S0.left/Zm,top:S0.top/Zm,width:S0.width/Zm,height:S0.height/Zm},T0=performance.now(),DUR=1050;
     L.forEach(function(o){o.a=A(o);o.b=fr({x:S.left+o.h[0]*S.width,y:S.top+o.h[1]*S.height,w:o.h[2]*S.width},o.b1);o.s.style.animation='none'});
     (function tick(){var now=performance.now(),all=true;
       L.forEach(function(o,i){var p=Math.min(1,Math.max(0,(now-T0-i*60)/DUR));if(p<1)all=false;var e=eob(p),c=1-Math.pow(1-p,3);
@@ -1442,7 +1452,7 @@ function Kit(renderer){
   const steelC=()=>new THREE.MeshStandardMaterial({color:0xB3B9C0,metalness:.75,roughness:.34,envMapIntensity:1.2});
   /* bata: kotak dengan tepi membulat halus */
   function brick(t,o={}){const g=new THREE.Group();
-    if(o.clay){const W=6.6,H=2.95,D=2.3,geo=roundBox(W,H,D,.48,[36,18,16]);const m=new THREE.Mesh(geo,clayM());m.castShadow=m.receiveShadow=true;g.add(m);
+    if(o.clay){const W=6.6,H=2.95,D=2.3,geo=roundBox(W,H,D,.24,[44,22,18]);const m=new THREE.Mesh(geo,clayM());m.castShadow=m.receiveShadow=true;g.add(m);
       const l=label('bata_c',5.0,true);l.position.set(.05,-.05,D/2+.006);g.add(l);g.userData.h=H;return g}
     const geo=roundBox(6,2,t,.035);
     const mats=[surf(t/TILE,2/TILE),surf(t/TILE,2/TILE),surf(6/TILE,t/TILE),surf(6/TILE,t/TILE),surf(6/TILE,2/TILE),surf(6/TILE,2/TILE)];
@@ -1630,12 +1640,12 @@ p3.addEventListener('webglcontextlost',e=>e.preventDefault());p3.addEventListene
 p3.addEventListener('pointerdown',e=>{drag2={x:e.clientX,y:e.clientY,r:rotY};p3.setPointerCapture(e.pointerId);p3.style.cursor='grabbing'});
 p3.addEventListener('pointermove',e=>{if(drag2){rotY=drag2.r+(e.clientX-drag2.x)/stage.clientWidth*4;dirty2=true}});
 p3.addEventListener('pointerup',e=>{if(drag2&&Math.abs(e.clientX-drag2.x)+Math.abs(e.clientY-drag2.y)<6){if(P.notes){P.notes=false;P.notesOff=true}else if(P.prod==='panel'&&P.mode!=='utuh'&&!P.demo){P.notes=true;P.notesOff=false}dirty2=true}drag2=null;p3.style.cursor=''});
-new ResizeObserver(()=>prodObj&&frame2()).observe(stage);
+new ResizeObserver(()=>{if(!prodObj)return;frame2();if(swp&&swp.ph===1){swp.np=cam2.position.clone();swp.nq=cam2.quaternion.clone()}}).observe(stage);
 let vis2=false;new IntersectionObserver(e=>{vis2=e[0].isIntersecting},{rootMargin:'200px'}).observe(stage);
 build2();
 const v=new THREE.Vector3();let last2=performance.now();
 function loop2(now){const dt=Math.min(.05,(now-last2)/1000);last2=now;
-  if(swp&&!vis2){if(swp.ph===0)build2();swp=null}
+  if(swp&&!vis2){if(swp.ph===0)build2();else if(swp.np){cam2.position.copy(swp.np);cam2.quaternion.copy(swp.nq)}if(prodObj){prodObj.position.x=0;prodObj.scale.setScalar(1)}swp=null;dirty2=true}
   if(vis2&&prodObj&&swp){const k=now-swp.t0;
     const SX=14;
     if(swp.ph===0){const e=Math.min(1,k/280),q=e*e*e;swp.old.position.x=-swp.dir*SX*q;swp.old.scale.setScalar(1-.12*q);
@@ -1655,7 +1665,7 @@ function loop2(now){const dt=Math.min(.05,(now-last2)/1000);last2=now;
       const show=P.notes&&P.mode!=='utuh'&&(anim.op<.6||anim.ex>.3);const w=stage.clientWidth,h=stage.clientHeight;prodObj.updateMatrixWorld();
       NOTES.forEach(n=>{const el=notesEl.querySelector(`[data-k="${n.k}"]`);const p=n.pt();if(n.mesh!==undefined)p.y=parts.meshes[n.mesh].position.y;else if(n.slice!==undefined)p.y+=parts.slices[n.slice].position.y-parts.T/2;
         v.copy(p).applyMatrix4(prodObj.matrixWorld).project(cam2);const x=(v.x*.5+.5)*w,y=(-v.y*.5+.5)*h;const okk=show&&!(P.mode==='xray'&&n.k==='end'&&w<600);
-        const ew=el.offsetWidth;let tx=n.side==='l'?x-ew:x;tx=Math.max(6,Math.min(w-ew-6,tx));el.style.transform=`translate(${tx}px,${y}px)`;el.classList.toggle('on',okk)})}
+        const ew=el.offsetWidth;let tx=n.side==='l'?x-ew:x;tx=Math.max(6,Math.min(w-ew-6,tx));el.style.transform=`translate(${tx}px,${y}px)`;el.classList.toggle('on',!!okk)})}
     R2.render(S2,cam2)}
   requestAnimationFrame(loop2)}
 requestAnimationFrame(loop2);
